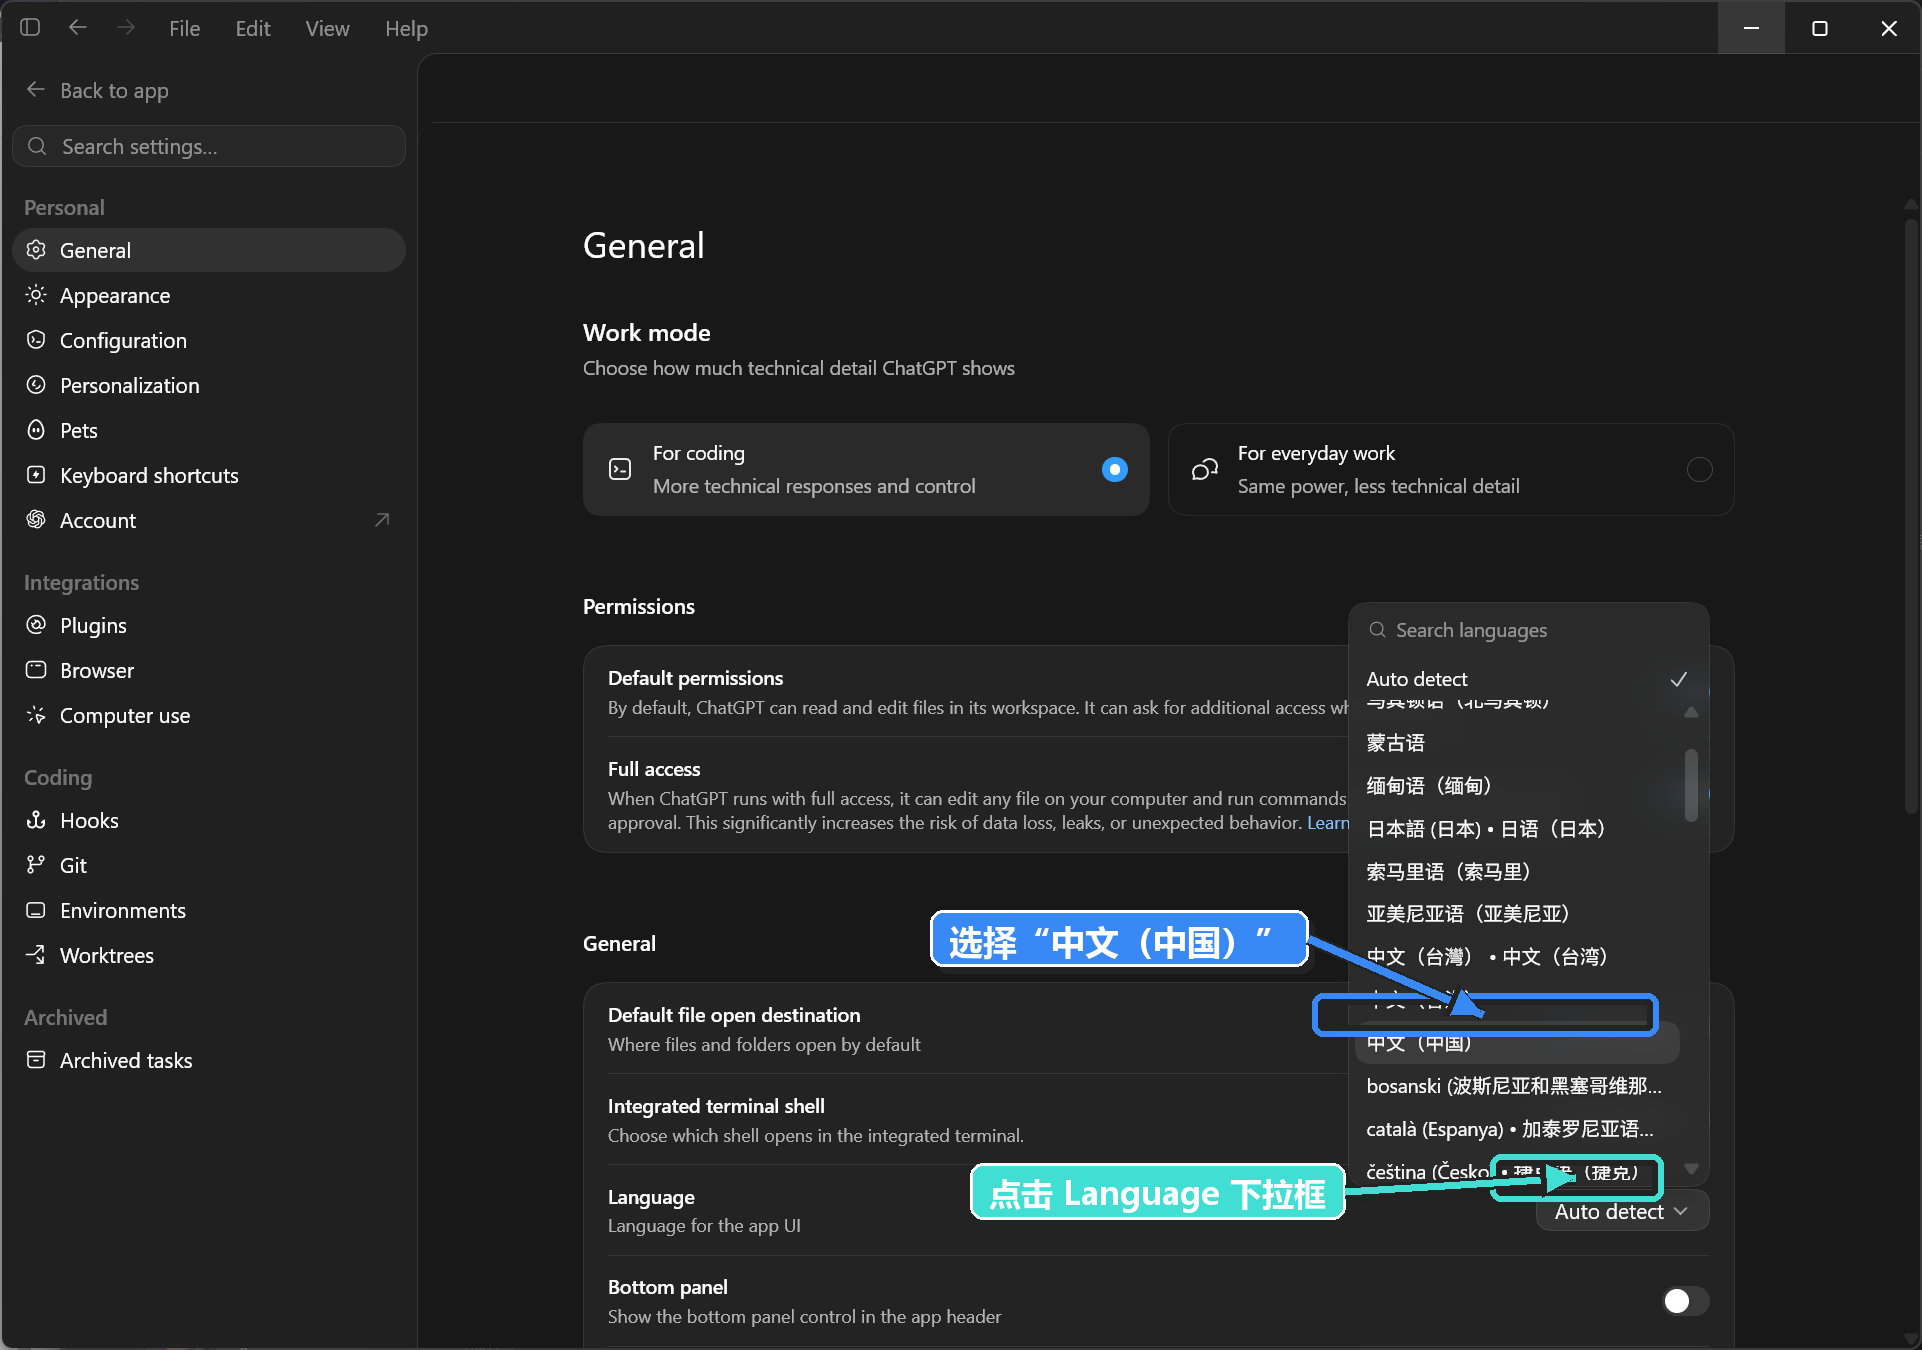
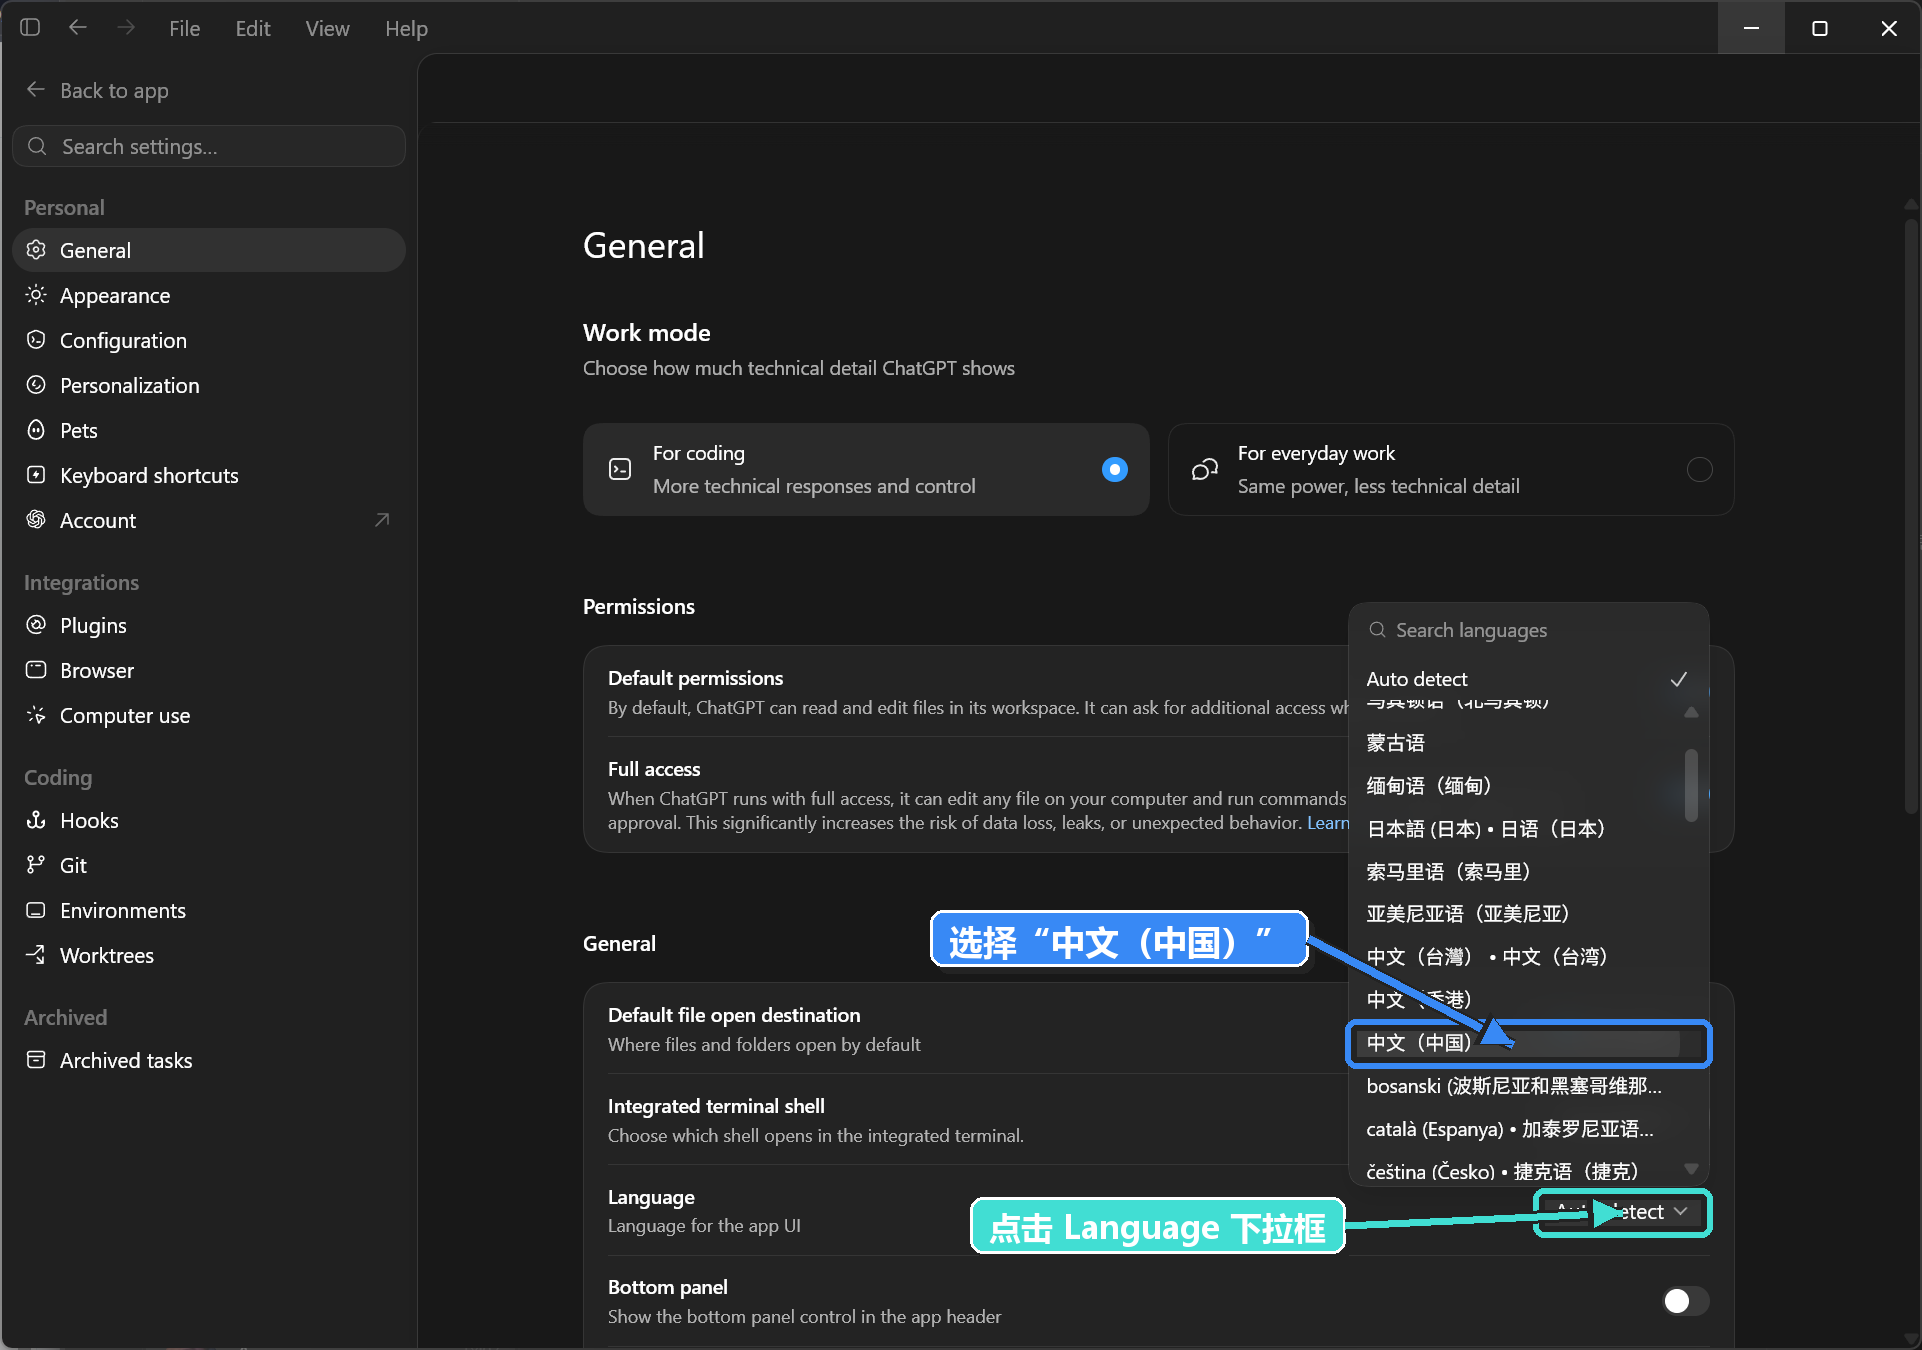
Fix language selection guidance

Changed region(s): [[0.4995, 0.84, 0.9053, 0.9333], [0.6868, 0.6844, 0.9053, 0.8089]]

diff --git a/index.html b/index.html
@@ -439,6 +439,9 @@
             </a>
             <figcaption>选择“中文（中国）”后，应用界面会切换为简体中文。</figcaption>
           </figure>
+          <p class="tutorial-followup">
+            <strong>注意：</strong>此操作只会改变应用界面的 UI 语言，不会改变 Codex 的回答语言。需要中文回答时，仍请在任务开头写清语言要求。
+          </p>
           <div class="step-block">
             <div class="step-number">1</div>
             <div>